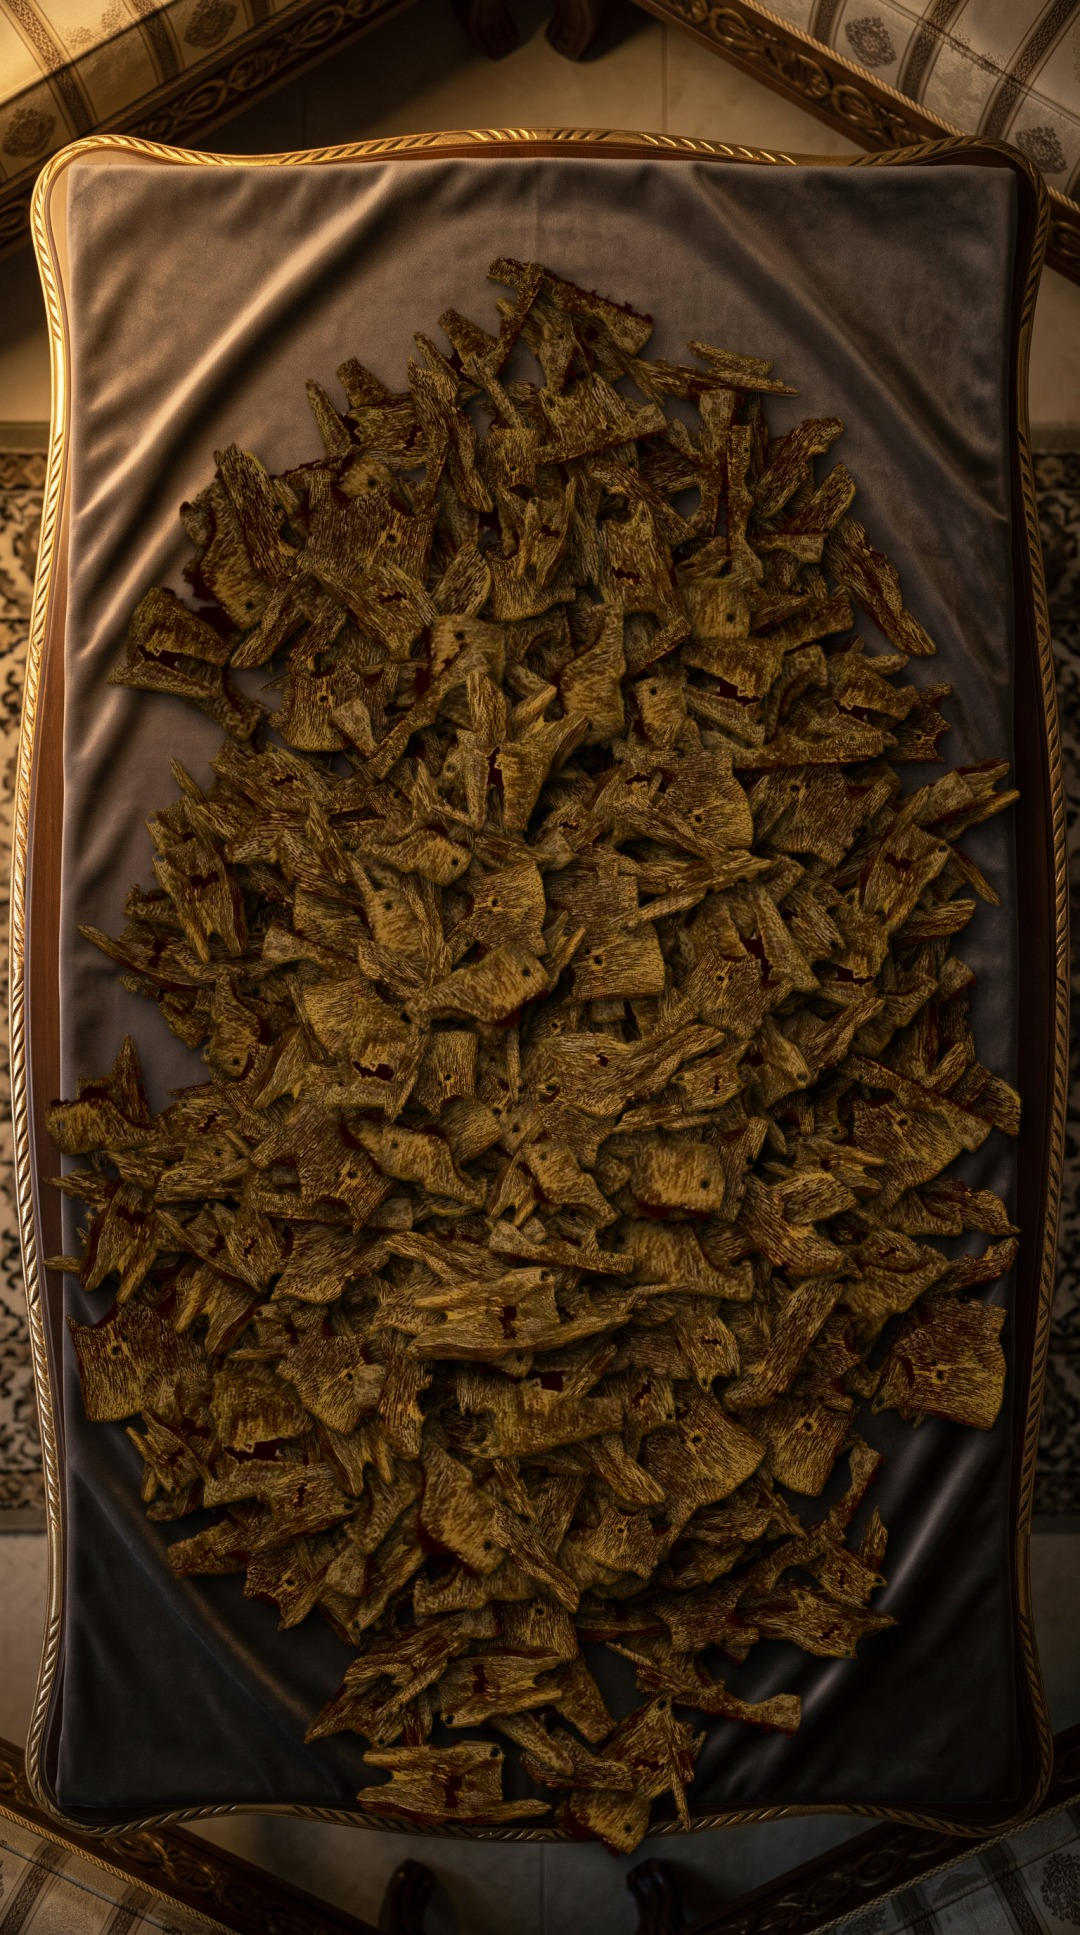
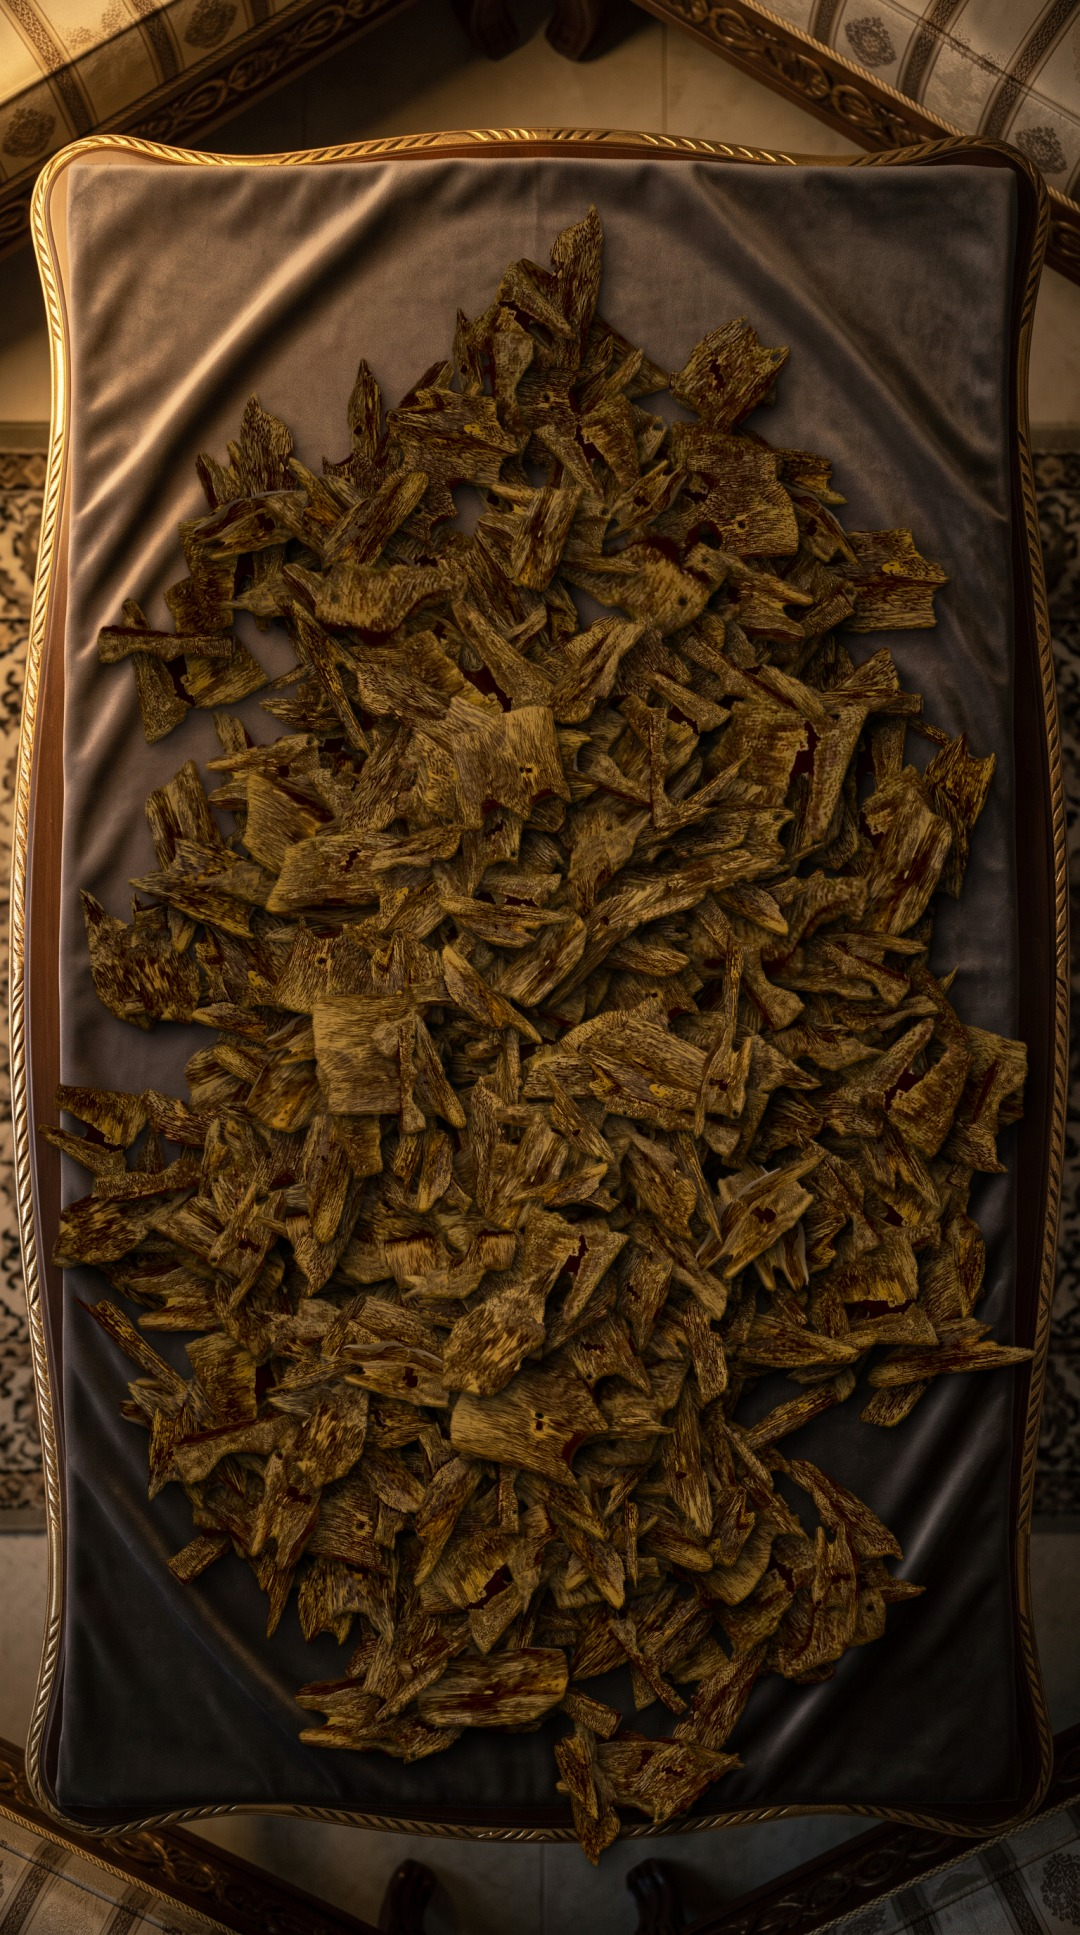
Kinam: 18 generated look-alike pieces (extracted) mixed with the 9 real ones in the wholesale heap
Claude-Session: https://claude.ai/code/session_01TQdgL8psWQ5B4XyTxv2k9v

diff --git a/kinam_diff/edit/cloth_pieces.py b/kinam_diff/edit/cloth_pieces.py
@@ -3,7 +3,7 @@ light from the upper left, contact + soft shadows, colour toward the Kinam targe
 import cv2, numpy as np, json, glob, random
 K = '/home/user/canva21/kinam/'; T = json.load(open(K + 'pieces/target_kinam.json'))
 out = cv2.imread('/home/user/canva21/kinam_diff/images/d03_cloth_empty.png').astype(np.float32); H, W = out.shape[:2]
-P = sorted(glob.glob(K + 'pieces/pieces_white_bg_*.png'))
+P = sorted(glob.glob(K + 'pieces/pieces_white_bg_*.png')) + sorted(glob.glob(K + 'pieces_gen/gen_pieces_white_*.png'))   # 9 real + 18 generated look-alikes
 # (piece index, centre x, centre y, length px, angle)  -- loose, hand-placed look, more space at the top for captions
 import sys
 rng = np.random.default_rng(int(sys.argv[1]) if len(sys.argv) > 1 else 7)
@@ -16,7 +16,7 @@ for layer in range(5):
     for k in range(n):
         t, r = rng.uniform(0, 2 * np.pi), np.sqrt(rng.uniform(0, 1)) * (1.0 - 0.15 * layer)
         x, y = CX + r * RX * np.cos(t), CY + r * RY * np.sin(t)
-        LAY.append((int(rng.integers(9)), x, y, rng.uniform(150, 270), rng.uniform(-180, 180), bool(rng.random() < 0.5), layer))
+        LAY.append((int(rng.integers(len(P))), x, y, rng.uniform(150, 270), rng.uniform(-180, 180), bool(rng.random() < 0.5), layer))
 def piece(i, cx, cy, L, ang, flip=False, layer=4):
     global out
     p = cv2.imread(P[i], -1); hs = cv2.cvtColor(p[..., :3], cv2.COLOR_BGR2HSV).astype(int)
